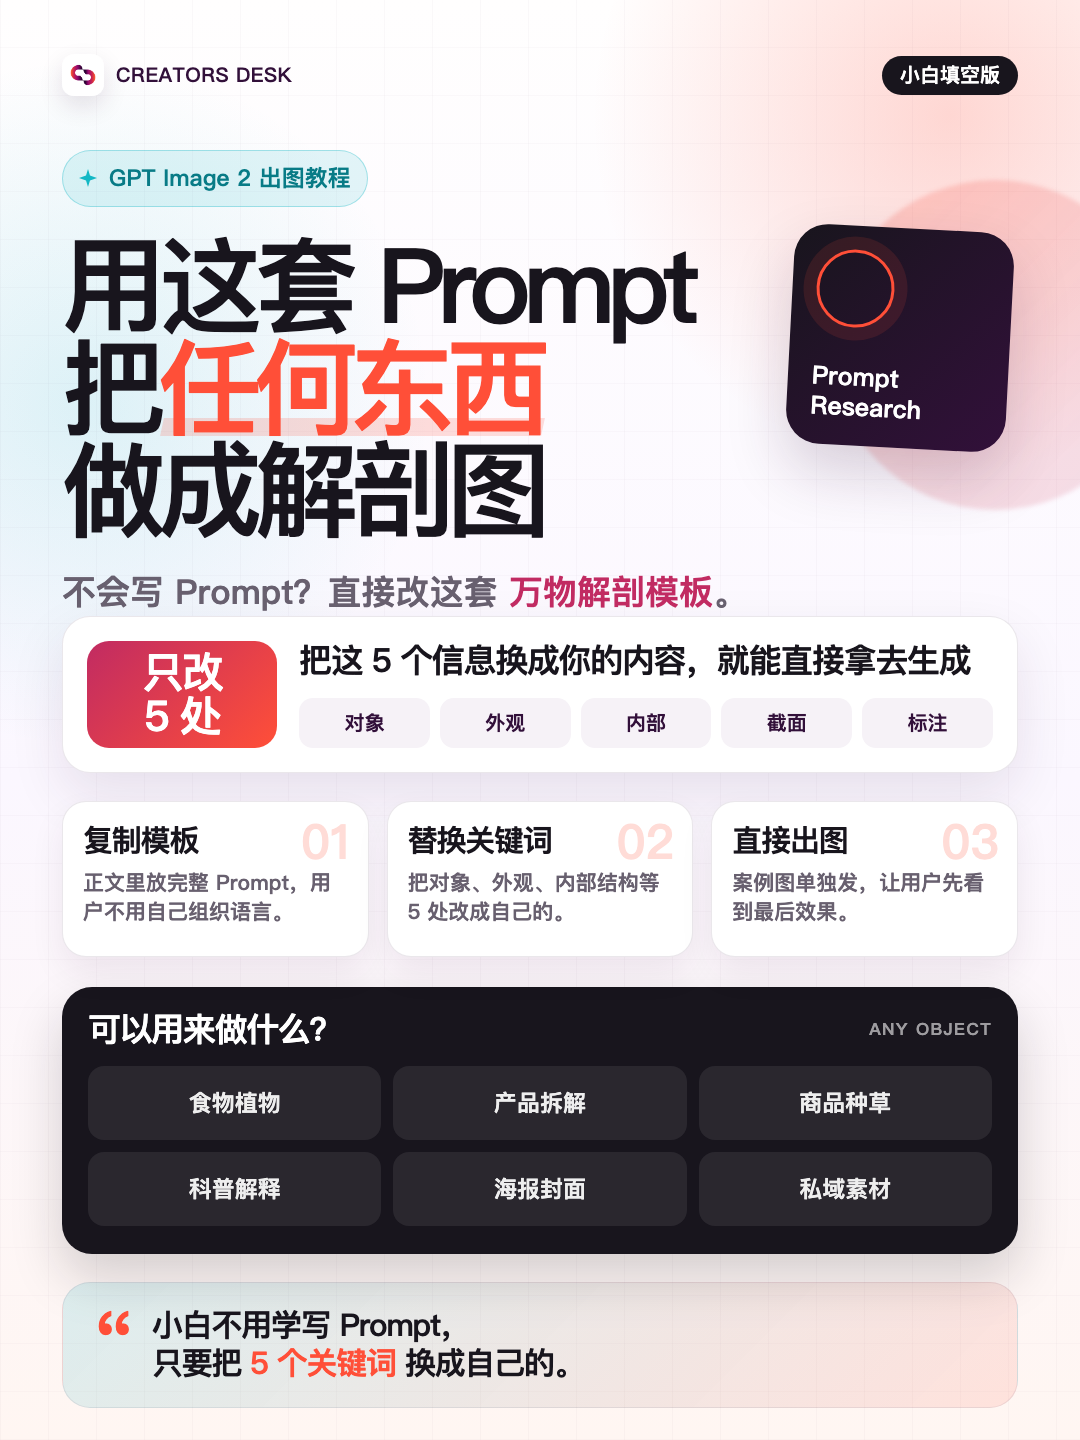
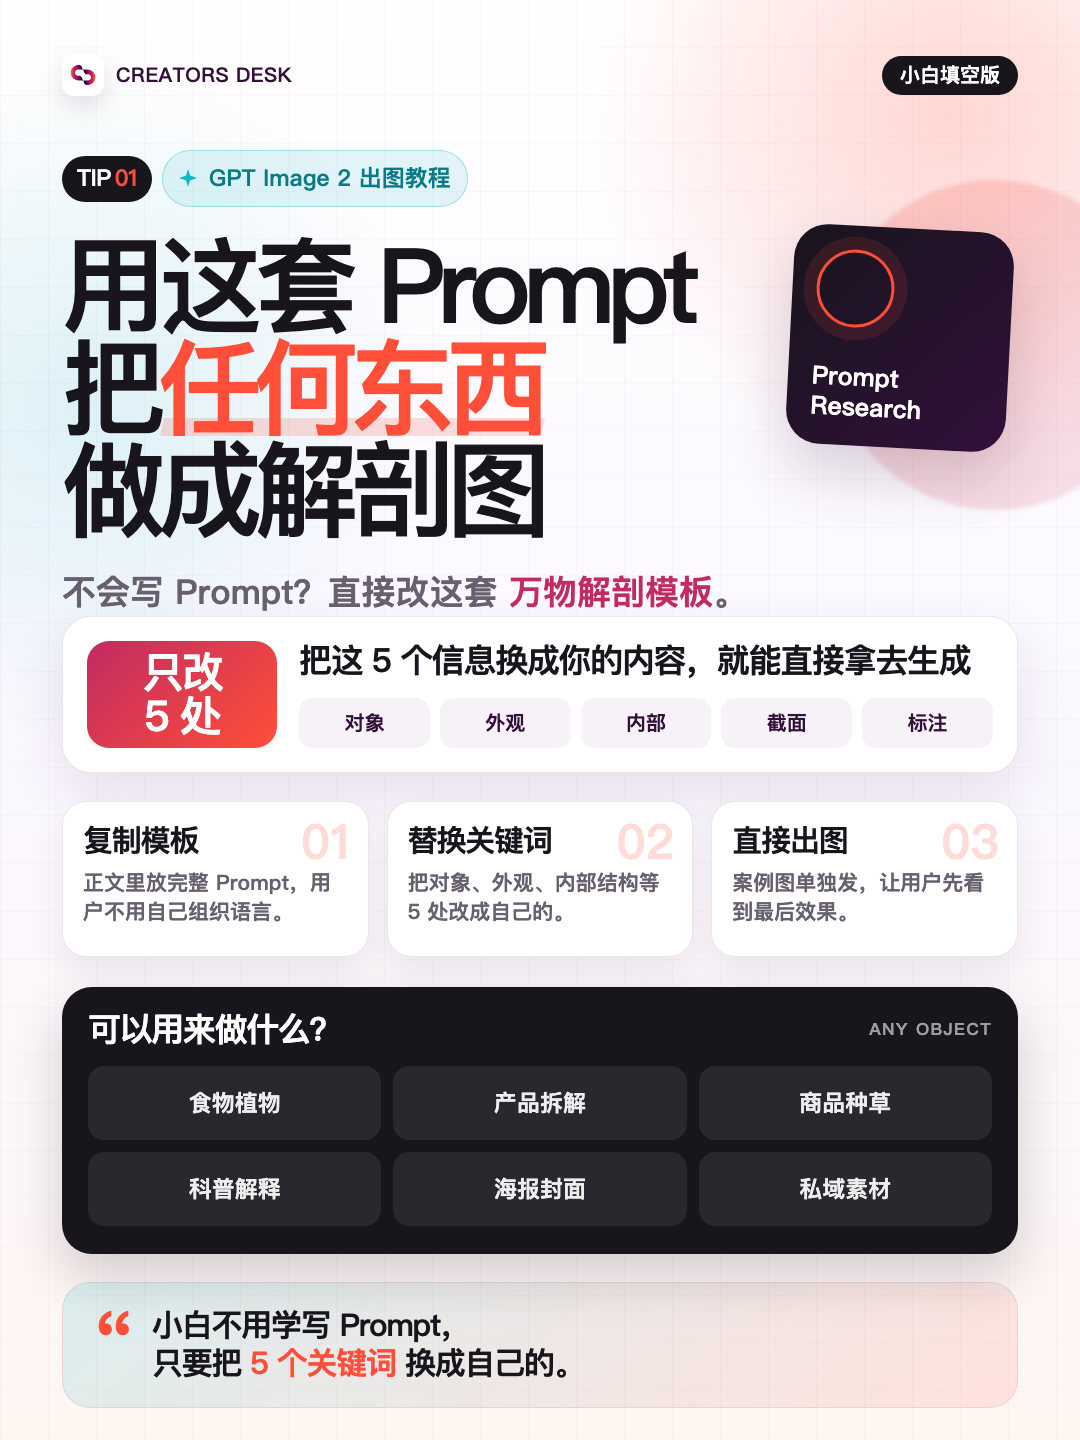
Add tip label to Xiaohongshu cover

Changed region(s): [[0.0611, 0.0938, 0.4278, 0.1562]]

diff --git a/social-card-specimen-prompt/research-cover.html b/social-card-specimen-prompt/research-cover.html
@@ -110,6 +110,27 @@
       font-size: 23px;
       font-weight: 900;
     }
+    .eyebrow-wrap {
+      display: inline-flex;
+      align-items: center;
+      gap: 10px;
+    }
+    .tip-chip {
+      display: inline-flex;
+      align-items: center;
+      padding: 11px 15px 12px;
+      border-radius: 999px;
+      background: #18151d;
+      color: #fff;
+      font-size: 23px;
+      line-height: 1;
+      font-weight: 950;
+      letter-spacing: -0.02em;
+    }
+    .tip-chip span {
+      color: var(--hot);
+      margin-left: 4px;
+    }
     .spark {
       width: 18px;
       height: 18px;
@@ -366,7 +387,10 @@
       </header>
 
       <section class="hero">
-        <div class="eyebrow"><span class="spark"></span>GPT Image 2 出图教程</div>
+        <div class="eyebrow-wrap">
+          <div class="tip-chip">TIP <span>01</span></div>
+          <div class="eyebrow"><span class="spark"></span>GPT Image 2 出图教程</div>
+        </div>
         <div class="visual-note"><span>Prompt<br>Research</span></div>
         <h1>用这套 Prompt<br>把<span class="hot">任何东西</span><br>做成解剖图</h1>
         <p class="subtitle">不会写 Prompt？直接改这套 <strong>万物解剖模板</strong>。</p>
